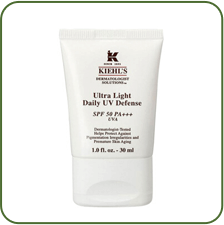
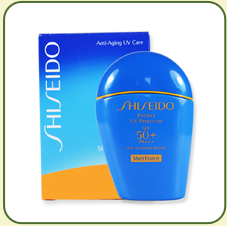
修改商品

diff --git a/cocogcMall/static/military_training.html b/cocogcMall/static/military_training.html
@@ -109,8 +109,8 @@
     .item .product-img{
       width: 90%;
       height: 56%;
-      border: 1px solid #89B2D4;
-      border-radius: 10px;
+      /* border: 1px solid #89B2D4; */
+      /* border-radius: 10px; */
     }
     .item .name{
       font-size: 70%;
@@ -163,8 +163,8 @@
     <div class="more first-more" onclick="goList('13548')"></div>
     <div class="item left-7 top-397" onclick="goDetail('175659')">
       <img src="./images/military_training/1-1.png" alt=" " class="product-img">
-      <p class="name">科颜氏（Kiehl's）焕白隔离乳 SPF30+ PA+++</p>
-      <div class="btn">椰子分 342.58</div>
+      <p class="name">资生堂（Shiseido）防护乳 50ml SPF50+PA+++</p>
+      <div class="btn">椰子分 352.50</div>
     </div>
     <div class="item right-7 top-397" onclick="goDetail('174832')">
       <img src="./images/military_training/1-2.png"  alt=" " class="product-img">
